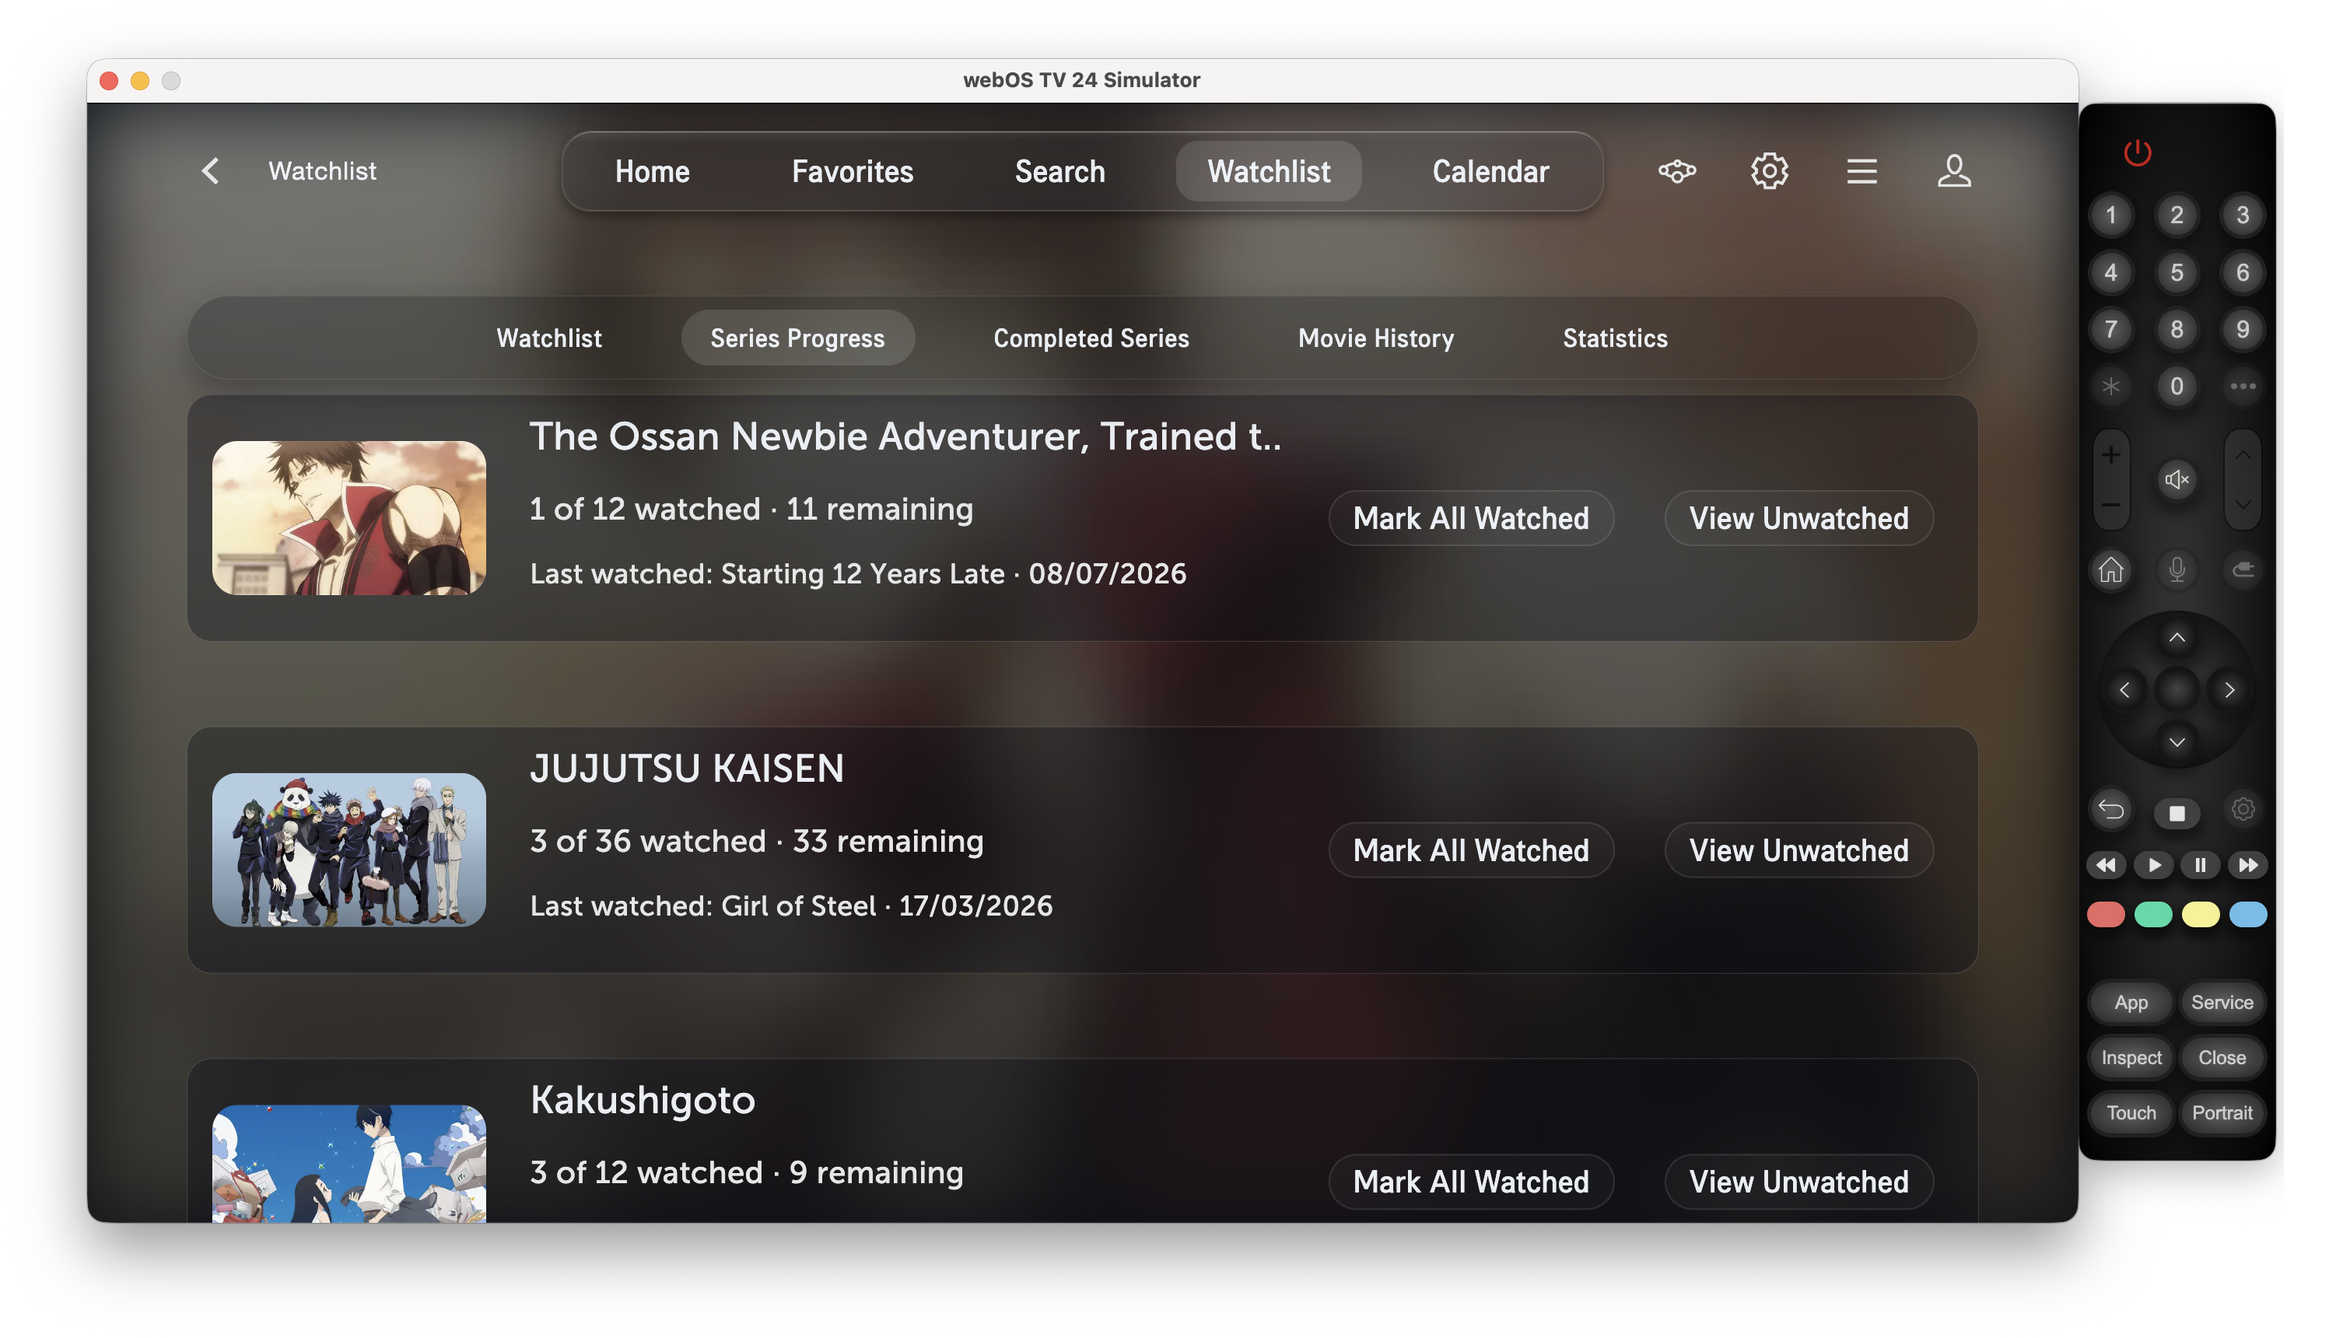
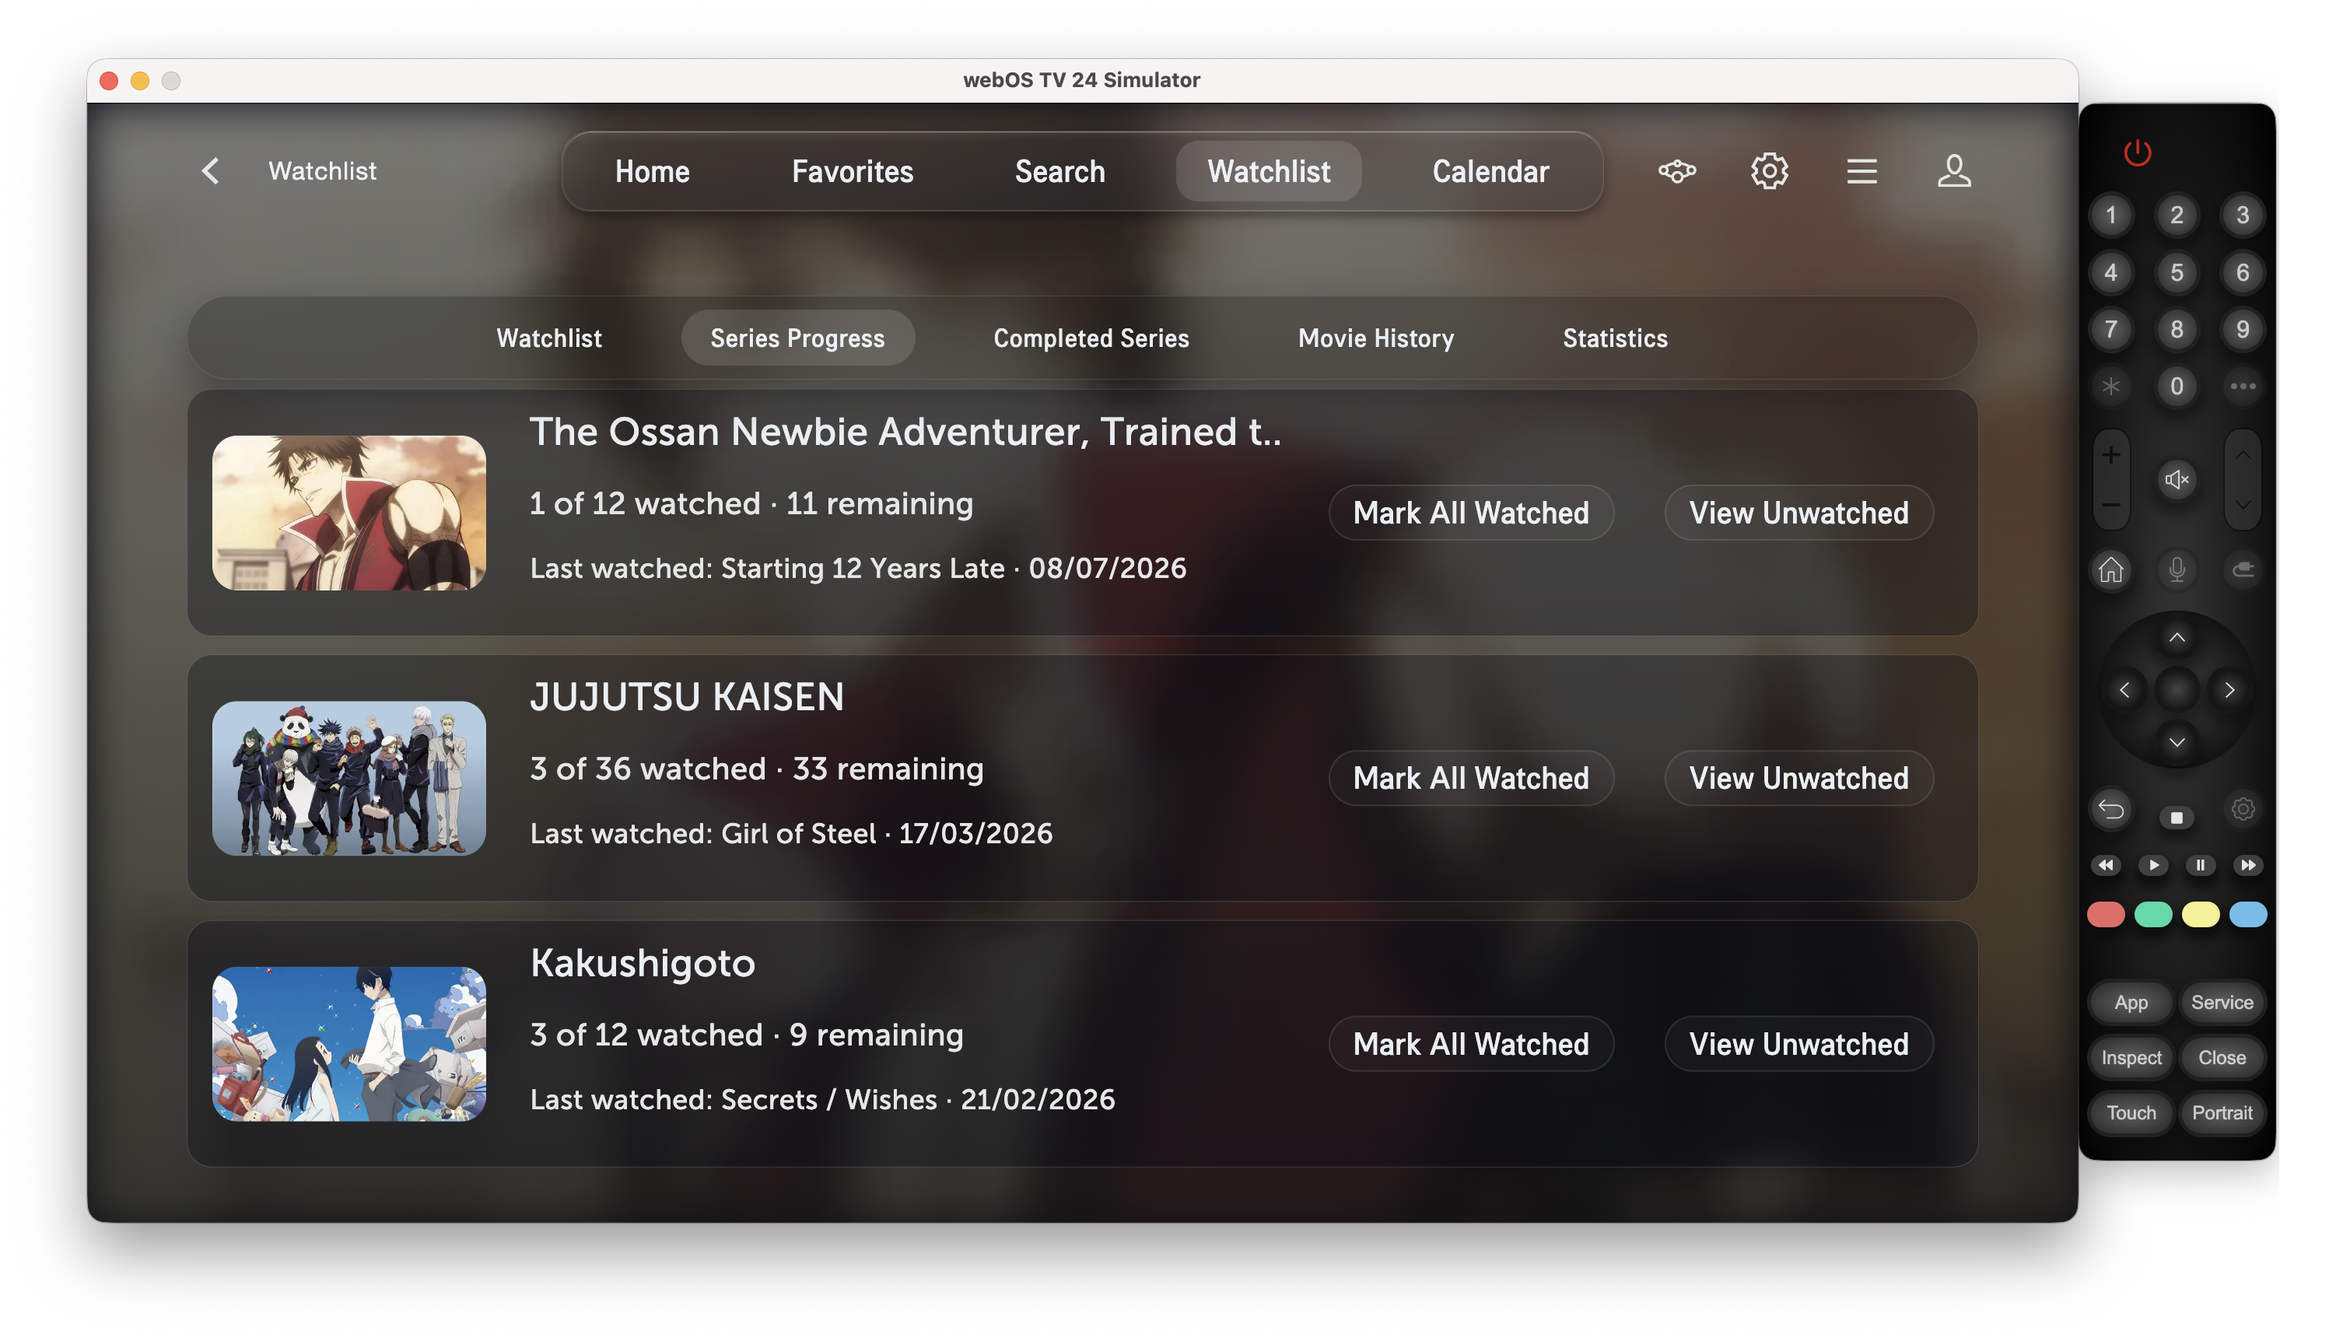
feat: enhance Watchlist panel toolbar actions and improve media item image handling

diff --git a/src/utils/mediaItemUtils.js b/src/utils/mediaItemUtils.js
@@ -4,6 +4,14 @@ const canBuildImageUrl = () => {
 	return Boolean(jellyfinService?.serverUrl && jellyfinService?.accessToken);
 };
 
+const getJellyfinImageItemId = (item) => {
+	if (!item) return null;
+	if (item.IsDiscoveryItem === true) {
+		return item.JellyfinImageItemId || item.JellyfinItemId || null;
+	}
+	return item.Id || null;
+};
+
 const buildPrimaryImageUrl = (itemId, {maxWidth = 400, tag, quality, blur} = {}) => {
 	if (!itemId || !canBuildImageUrl()) return null;
 	return jellyfinService.getImageUrl(itemId, 'Primary', maxWidth, {tag, quality, blur});
@@ -99,6 +107,8 @@ export const getPosterCardImageUrls = (item, {
 	quality = 78
 } = {}) => {
 	if (!item || !canBuildImageUrl()) return [];
+	const imageItemId = getJellyfinImageItemId(item);
+	if (!imageItemId) return [];
 	const candidates = [];
 	const addCandidate = (url) => {
 		if (url) candidates.push(url);
@@ -106,18 +116,18 @@ export const getPosterCardImageUrls = (item, {
 
 	if (item.Type === 'Person') {
 		if (item.PrimaryImageTag) {
-			addCandidate(buildPrimaryImageUrl(item.Id, {
+			addCandidate(buildPrimaryImageUrl(imageItemId, {
 				maxWidth: personMaxWidth,
 				tag: item.PrimaryImageTag,
 				quality
 			}));
 		}
-		addCandidate(buildPrimaryImageUrl(item.Id, {maxWidth: personMaxWidth, quality}));
+		addCandidate(buildPrimaryImageUrl(imageItemId, {maxWidth: personMaxWidth, quality}));
 		return uniqueImageCandidates(candidates);
 	}
 
 	if (item?.ImageTags?.Primary) {
-		addCandidate(buildPrimaryImageUrl(item.Id, {
+		addCandidate(buildPrimaryImageUrl(imageItemId, {
 			maxWidth,
 			tag: item.ImageTags.Primary,
 			quality
@@ -125,7 +135,7 @@ export const getPosterCardImageUrls = (item, {
 	}
 
 	if (includeBackdrop && Array.isArray(item?.BackdropImageTags) && item.BackdropImageTags.length > 0) {
-		addCandidate(buildBackdropImageUrl(item.Id, {
+		addCandidate(buildBackdropImageUrl(imageItemId, {
 			maxWidth,
 			index: 0,
 			tag: item.BackdropImageTags[0],
@@ -141,7 +151,7 @@ export const getPosterCardImageUrls = (item, {
 		}));
 	}
 
-	addCandidate(buildPrimaryImageUrl(item.Id, {maxWidth, quality}));
+	addCandidate(buildPrimaryImageUrl(imageItemId, {maxWidth, quality}));
 	return uniqueImageCandidates(candidates);
 };
 
@@ -155,6 +165,8 @@ export const getLandscapeCardImageUrls = (item, {
 	quality = 76
 } = {}) => {
 	if (!item || !canBuildImageUrl()) return [];
+	const imageItemId = getJellyfinImageItemId(item);
+	if (!imageItemId) return [];
 	const candidates = [];
 	const addCandidate = (url) => {
 		if (url) candidates.push(url);
@@ -162,14 +174,14 @@ export const getLandscapeCardImageUrls = (item, {
 
 	// Prefer episode primary art first for episode-heavy rows.
 	if (item?.Type === 'Episode' && item?.ImageTags?.Primary) {
-		addCandidate(jellyfinService.getImageUrl(item.Id, 'Primary', width, {
+		addCandidate(jellyfinService.getImageUrl(imageItemId, 'Primary', width, {
 			tag: item.ImageTags.Primary,
 			quality
 		}));
 	}
 
 	if (Array.isArray(item?.BackdropImageTags) && item.BackdropImageTags.length > 0) {
-		addCandidate(jellyfinService.getBackdropUrl(item.Id, 0, width, {
+		addCandidate(jellyfinService.getBackdropUrl(imageItemId, 0, width, {
 			tag: item.BackdropImageTags[0],
 			quality
 		}));
@@ -184,7 +196,7 @@ export const getLandscapeCardImageUrls = (item, {
 	}
 
 	if (item?.Type !== 'Episode' && item?.ImageTags?.Primary) {
-		addCandidate(jellyfinService.getImageUrl(item.Id, 'Primary', width, {
+		addCandidate(jellyfinService.getImageUrl(imageItemId, 'Primary', width, {
 			tag: item.ImageTags.Primary,
 			quality
 		}));
@@ -197,7 +209,7 @@ export const getLandscapeCardImageUrls = (item, {
 		}));
 	}
 
-	addCandidate(jellyfinService.getImageUrl(item.Id, 'Primary', width, {quality}));
+	addCandidate(jellyfinService.getImageUrl(imageItemId, 'Primary', width, {quality}));
 	return uniqueImageCandidates(candidates);
 };
 
@@ -211,6 +223,8 @@ export const getMediaPanelBackdropUrls = (item, {
 	blur
 } = {}) => {
 	if (!item || !canBuildImageUrl()) return [];
+	const imageItemId = getJellyfinImageItemId(item);
+	if (!imageItemId) return [];
 
 	const candidates = [];
 	const addCandidate = (url) => {
@@ -221,17 +235,17 @@ export const getMediaPanelBackdropUrls = (item, {
 	const parentBackdropItemId = item?.ParentBackdropItemId || item?.SeriesId;
 
 	const imageOptions = {quality, blur};
-	addCandidate(jellyfinService.getBackdropUrl(item.Id, 0, width, {...imageOptions, tag: ownBackdropTag}));
+	addCandidate(jellyfinService.getBackdropUrl(imageItemId, 0, width, {...imageOptions, tag: ownBackdropTag}));
 	if (parentBackdropItemId) {
 		addCandidate(jellyfinService.getBackdropUrl(parentBackdropItemId, 0, width, {...imageOptions, tag: parentBackdropTag}));
 	}
 	if (item?.Type === 'Episode' && item?.ImageTags?.Primary) {
-		addCandidate(jellyfinService.getImageUrl(item.Id, 'Primary', width, {
+		addCandidate(jellyfinService.getImageUrl(imageItemId, 'Primary', width, {
 			...imageOptions,
 			tag: item.ImageTags.Primary
 		}));
 	}
-	addCandidate(jellyfinService.getImageUrl(item.Id, 'Primary', width, {
+	addCandidate(jellyfinService.getImageUrl(imageItemId, 'Primary', width, {
 		...imageOptions,
 		tag: item?.ImageTags?.Primary || item?.PrimaryImageTag
 	}));

diff --git a/src/components/Toolbar.js b/src/components/Toolbar.js
@@ -45,7 +45,9 @@ const Toolbar = ({
 	onSwitchUser,
 	onLogout,
 	onExit,
-	onNavigateDown
+	onNavigateDown,
+	onBack,
+	panelTitle = ''
 }) => {
 	const runtimeSuspended = useRuntimeSuspended();
 	const [libraries, setLibraries] = useState([]);
@@ -87,6 +89,7 @@ const Toolbar = ({
 	].join(', ')), []);
 	usePopupInitialFocus(showLibrariesPopup, librariesPopupContentRef);
 	const elegantPanelTitle = useMemo(() => {
+		if (panelTitle) return panelTitle;
 		if (isHomeSection) return '';
 		if (activeSection === 'library') {
 			return librariesById.get(String(activeLibraryId))?.Name || 'Library';
@@ -99,7 +102,7 @@ const Toolbar = ({
 		if (activeSection === 'watchParty') return 'Watch Party';
 		if (activeSection === 'settings') return 'Settings';
 		return activeSection ? activeSection.charAt(0).toUpperCase() + activeSection.slice(1) : '';
-	}, [activeLibraryId, activeSection, isHomeSection, librariesById]);
+	}, [activeLibraryId, activeSection, isHomeSection, librariesById, panelTitle]);
 
 	const applyToolbarThemeFromSettings = useCallback((settingsPayload) => {
 		const nextTheme = settingsPayload?.navbarTheme;
@@ -301,6 +304,7 @@ const Toolbar = ({
 	}, [onNavigate]);
 
 	const handleClassicBack = useCallback(() => {
+		if (onBack?.() === true) return;
 		closeDisclosure(TOOLBAR_DISCLOSURE_KEYS.USER_MENU);
 		closeDisclosure(TOOLBAR_DISCLOSURE_KEYS.LIBRARIES_POPUP);
 		// Keep Home safe from accidental exit prompts via toolbar click.
@@ -308,7 +312,7 @@ const Toolbar = ({
 		if (typeof window !== 'undefined' && typeof window.history?.back === 'function') {
 			window.history.back();
 		}
-	}, [activeSection, closeDisclosure]);
+	}, [activeSection, closeDisclosure, onBack]);
 
 	const handleNavigateFavorites = useCallback(() => {
 		onNavigate('favorites');
@@ -335,10 +339,11 @@ const Toolbar = ({
 	}, [onNavigate]);
 
 	const handleElegantBack = useCallback(() => {
+		if (onBack?.() === true) return;
 		closeDisclosure(TOOLBAR_DISCLOSURE_KEYS.USER_MENU);
 		closeDisclosure(TOOLBAR_DISCLOSURE_KEYS.LIBRARIES_POPUP);
 		onNavigate('home');
-	}, [closeDisclosure, onNavigate]);
+	}, [closeDisclosure, onBack, onNavigate]);
 
 	const handleLibraryNavigate = useCallback((event) => {
 		const libraryId = event.currentTarget.dataset.libraryId;

diff --git a/src/views/media-details-panel/components/MediaCastSection.js b/src/views/media-details-panel/components/MediaCastSection.js
@@ -3,6 +3,7 @@ import Heading from '@enact/sandstone/Heading';
 import Icon from '@enact/sandstone/Icon';
 import BodyText from '@enact/sandstone/BodyText';
 import Spottable from '@enact/spotlight/Spottable';
+import {buildMediaListItemKey} from '../../../utils/reactKeys';
 import css from '../../MediaDetailsPanel.module.less';
 
 const SpottableDiv = Spottable('div');
@@ -21,7 +22,9 @@ const MediaCastSection = ({
 }) => {
 	const castList = Array.isArray(cast) ? cast : [];
 	const [loadedCastImageKeys, setLoadedCastImageKeys] = useState(() => new Set());
-	const castKeysSignature = castList.map((person) => String(person?.Id || person?.Name || '?')).join('|');
+	const castKeysSignature = castList
+		.map((person, index) => buildMediaListItemKey('cast', person, index))
+		.join('|');
 
 	useEffect(() => {
 		setLoadedCastImageKeys(new Set());
@@ -61,8 +64,8 @@ const MediaCastSection = ({
 			{!isCastCollapsed && (
 				<div className={css.castScroller} ref={castScrollerRef}>
 					<div className={css.castRow} ref={castRowRef}>
-						{castList.map((person) => {
-							const personKey = String(person?.Id || person?.Name || '?');
+						{castList.map((person, index) => {
+							const personKey = buildMediaListItemKey('cast', person, index);
 							const imageLoaded = loadedCastImageKeys.has(personKey);
 							return (
 								<SpottableDiv

diff --git a/src/utils/__tests__/mediaItemUtils.test.js b/src/utils/__tests__/mediaItemUtils.test.js
@@ -204,4 +204,34 @@ describe('mediaItemUtils landscape artwork', () => {
 			'untagged-primary-url'
 		]);
 	});
+
+	it('does not treat provider-only discovery IDs as Jellyfin image IDs', () => {
+		const item = {
+			Id: 'movie:provider:123',
+			Type: 'Movie',
+			IsDiscoveryItem: true,
+			JellyfinItemId: null
+		};
+
+		expect(getLandscapeCardImageUrls(item)).toEqual([]);
+		expect(getMediaPanelBackdropUrls(item)).toEqual([]);
+		expect(jellyfinService.getBackdropUrl).not.toHaveBeenCalled();
+		expect(jellyfinService.getImageUrl).not.toHaveBeenCalled();
+	});
+
+	it('uses the linked Jellyfin item ID for discovery image fallbacks', () => {
+		jellyfinService.getBackdropUrl.mockImplementation((id) => `backdrop:${id}`);
+		jellyfinService.getImageUrl.mockImplementation((id) => `primary:${id}`);
+		const item = {
+			Id: 'movie:provider:123',
+			Type: 'Movie',
+			IsDiscoveryItem: true,
+			JellyfinItemId: 'jellyfin-movie-123'
+		};
+
+		expect(getMediaPanelBackdropUrls(item)).toEqual([
+			'backdrop:jellyfin-movie-123',
+			'primary:jellyfin-movie-123'
+		]);
+	});
 });

diff --git a/src/hooks/__tests__/usePanelToolbarActions.test.js b/src/hooks/__tests__/usePanelToolbarActions.test.js
@@ -1,0 +1,30 @@
+import {renderHook} from '@testing-library/react';
+import {usePanelToolbarActions} from '../usePanelToolbarActions';
+
+describe('usePanelToolbarActions', () => {
+	it('exposes the layered panel Back handler to the visible Toolbar action', () => {
+		const onPanelBack = jest.fn(() => true);
+		const registerBackHandler = jest.fn();
+		const {result} = renderHook(() => usePanelToolbarActions({
+			onNavigate: jest.fn(),
+			registerBackHandler,
+			isActive: true,
+			onPanelBack
+		}));
+
+		expect(result.current.onBack()).toBe(true);
+		expect(onPanelBack).toHaveBeenCalledTimes(1);
+	});
+
+	it('falls through when neither the panel nor Toolbar owns Back', () => {
+		const onPanelBack = jest.fn(() => false);
+		const {result} = renderHook(() => usePanelToolbarActions({
+			onNavigate: jest.fn(),
+			registerBackHandler: jest.fn(),
+			isActive: true,
+			onPanelBack
+		}));
+
+		expect(result.current.onBack()).toBe(false);
+	});
+});

diff --git a/src/components/__tests__/IntegrationPanelLayout.test.js b/src/components/__tests__/IntegrationPanelLayout.test.js
@@ -11,8 +11,8 @@ jest.mock('../AppScroller', () => function TestScroller({children}) {
 	return <div data-testid="app-scroller">{children}</div>;
 });
 
-jest.mock('../Toolbar', () => function TestToolbar() {
-	return <nav />;
+jest.mock('../Toolbar', () => function TestToolbar({panelTitle}) {
+	return <nav data-panel-title={panelTitle} />;
 });
 
 jest.mock('../BreezyLoadingOverlay', () => function TestLoading({label}) {
@@ -51,5 +51,6 @@ describe('IntegrationPanelLayout scroll ownership', () => {
 		expect(
 			screen.getByText('Virtual list content').closest('[data-bf-integration-panel-content="true"]')
 		).toBeTruthy();
+		expect(document.querySelector('nav').dataset.panelTitle).toBe('Watchlist');
 	});
 });

diff --git a/src/components/toolbar/__tests__/ToolbarSyncPlayAction.test.js b/src/components/toolbar/__tests__/ToolbarSyncPlayAction.test.js
@@ -103,6 +103,16 @@ const buildClassicProps = (overrides = {}) => ({
 });
 
 describe('Toolbar SyncPlay navigation placement', () => {
+	it('describes the Elegant Back action without promising a direct Home jump', () => {
+		render(<ToolbarElegantLayout {...buildElegantProps({
+			isHomeSection: false,
+			elegantPanelTitle: 'Watchlist Shows'
+		})} />);
+
+		expect(screen.getByRole('button', {name: 'Back from Watchlist Shows'})).toBeTruthy();
+		expect(screen.getByText('Watchlist Shows')).toBeTruthy();
+	});
+
 	it('uses the Elegant right-side Search slot for a Cast action', () => {
 		const handleNavigateSyncPlay = jest.fn();
 		render(<ToolbarElegantLayout {...buildElegantProps({handleNavigateSyncPlay})} />);

diff --git a/src/views/__tests__/WatchlistPanel.test.js b/src/views/__tests__/WatchlistPanel.test.js
@@ -151,7 +151,7 @@ describe('WatchlistPanel advanced list layout', () => {
 		expect(virtualListProps).toEqual(expect.objectContaining({
 			id: 'watchlist-progress-list',
 			spotlightId: 'watchlist-progress-list',
-			itemSize: 320,
+			itemSize: 256,
 			snapToCenter: false
 		}));
 		expect(virtualListProps.overscrollEffectOn).toEqual({
@@ -255,7 +255,7 @@ describe('WatchlistPanel advanced list layout', () => {
 
 		const title = await screen.findByText(longTitle);
 		expect(title.className).toContain('insightTitle');
-		expect(virtualListProps.itemSize).toBe(320);
+		expect(virtualListProps.itemSize).toBe(256);
 	});
 
 	it('centers the native Watchlist empty state in its content viewport', async () => {

diff --git a/src/hooks/useToolbarActions.js b/src/hooks/useToolbarActions.js
@@ -5,13 +5,15 @@ export const useToolbarActions = ({
 	onSwitchUser,
 	onLogout,
 	onExit,
-	registerBackHandler
+	registerBackHandler,
+	onBack
 }) => {
 	return useMemo(() => ({
 		onNavigate,
 		onSwitchUser,
 		onLogout,
 		onExit,
-		registerBackHandler
-	}), [onExit, onLogout, onNavigate, onSwitchUser, registerBackHandler]);
+		registerBackHandler,
+		onBack
+	}), [onBack, onExit, onLogout, onNavigate, onSwitchUser, registerBackHandler]);
 };

diff --git a/src/components/toolbar/ToolbarElegantLayout.js b/src/components/toolbar/ToolbarElegantLayout.js
@@ -90,7 +90,7 @@ const ToolbarElegantLayout = ({
 								<SpottableDiv
 									onClick={handleElegantBack}
 									className={`${css.iconButton} ${css.elegantBackButton}`}
-									aria-label={`Back to Home from ${elegantPanelTitle}`}
+									aria-label={`Back from ${elegantPanelTitle}`}
 									spotlightId="toolbar-back"
 								>
 									<Icon style={{'--icon-size': '1rem'}}>arrowsmallleft</Icon>

diff --git a/src/views/WatchlistPanel.js b/src/views/WatchlistPanel.js
@@ -24,7 +24,7 @@ import css from './WatchlistPanel.module.less';
 const SpottableDiv = Spottable('div');
 const PAGE_SIZE = 30;
 const PREVIEW_SIZE = 10;
-const INSIGHT_ITEM_SIZE = ri.scale(320);
+const INSIGHT_ITEM_SIZE = ri.scale(256);
 const VIRTUAL_TABS = Object.freeze(['progress', 'completed', 'movies']);
 const TABS = Object.freeze([
 	{id: 'watchlist', label: 'Watchlist'},

diff --git a/src/views/WatchlistPanel.module.less b/src/views/WatchlistPanel.module.less
@@ -26,10 +26,10 @@
 .insightRow {
 	display: flex;
 	box-sizing: border-box;
-	height: calc(100% - 0.75rem);
+	height: calc(100% - 16px);
 	align-items: center;
 	gap: 1rem;
-	margin: 0.375rem 0;
+	margin: 8px 0;
 	padding: 0.75rem 1rem;
 	overflow: hidden;
 	border: 1px solid @card-border-rest;
